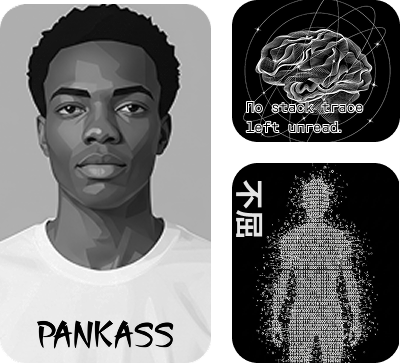
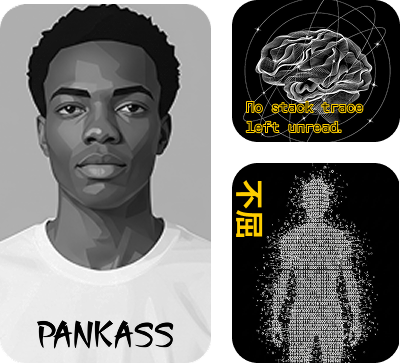
simplify: all cards in yellow #FECE00, no dark/light theme switching

Changed region(s): [[0.6, 0.2727, 0.93, 0.3939], [0.57, 0.4848, 0.66, 0.6667]]

diff --git a/README.md b/README.md
@@ -82,8 +82,6 @@
 <br>
 <br>
 
-<picture align="center">
-  <source media="(prefers-color-scheme: dark)" srcset="https://github-readme-activity-graph.vercel.app/graph?username=PANK4SS&bg_color=00000000&color=ffffff&line=ffffff&point=ffffff&area=true&area_color=ffffff&hide_border=true&custom_title=Contribution%20Evolution">
-  <source media="(prefers-color-scheme: light)" srcset="https://github-readme-activity-graph.vercel.app/graph?username=PANK4SS&bg_color=00000000&color=000000&line=000000&point=000000&area=true&area_color=000000&hide_border=true&custom_title=Contribution%20Evolution">
-  <img src="https://github-readme-activity-graph.vercel.app/graph?username=PANK4SS&bg_color=00000000&color=000000&line=000000&point=000000&area=true&area_color=000000&hide_border=true&custom_title=Contribution%20Evolution" alt="Contribution Evolution" width="100%">
-</picture>
+<p align="center">
+  <img src="https://github-readme-activity-graph.vercel.app/graph?username=PANK4SS&bg_color=00000000&color=FECE00&line=FECE00&point=FECE00&area=true&area_color=FECE00&hide_border=true&custom_title=Contribution%20Evolution" alt="Contribution Evolution" width="100%">
+</p>
